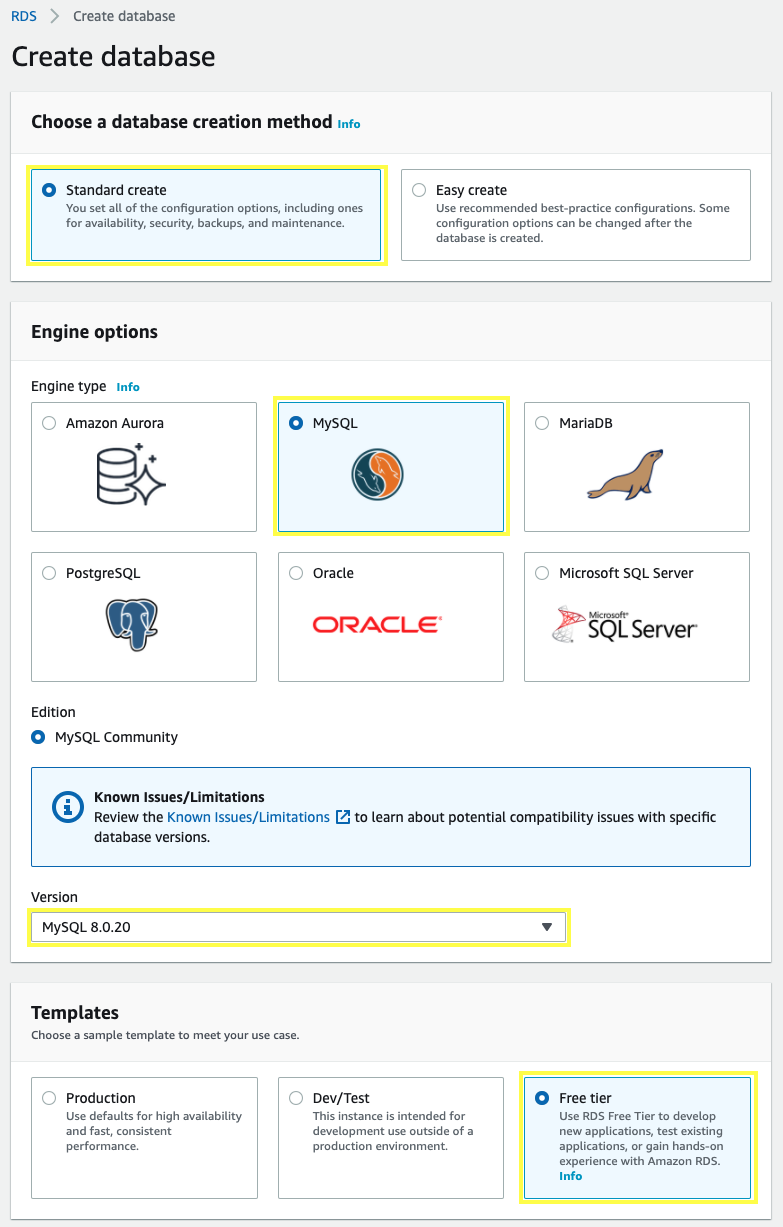
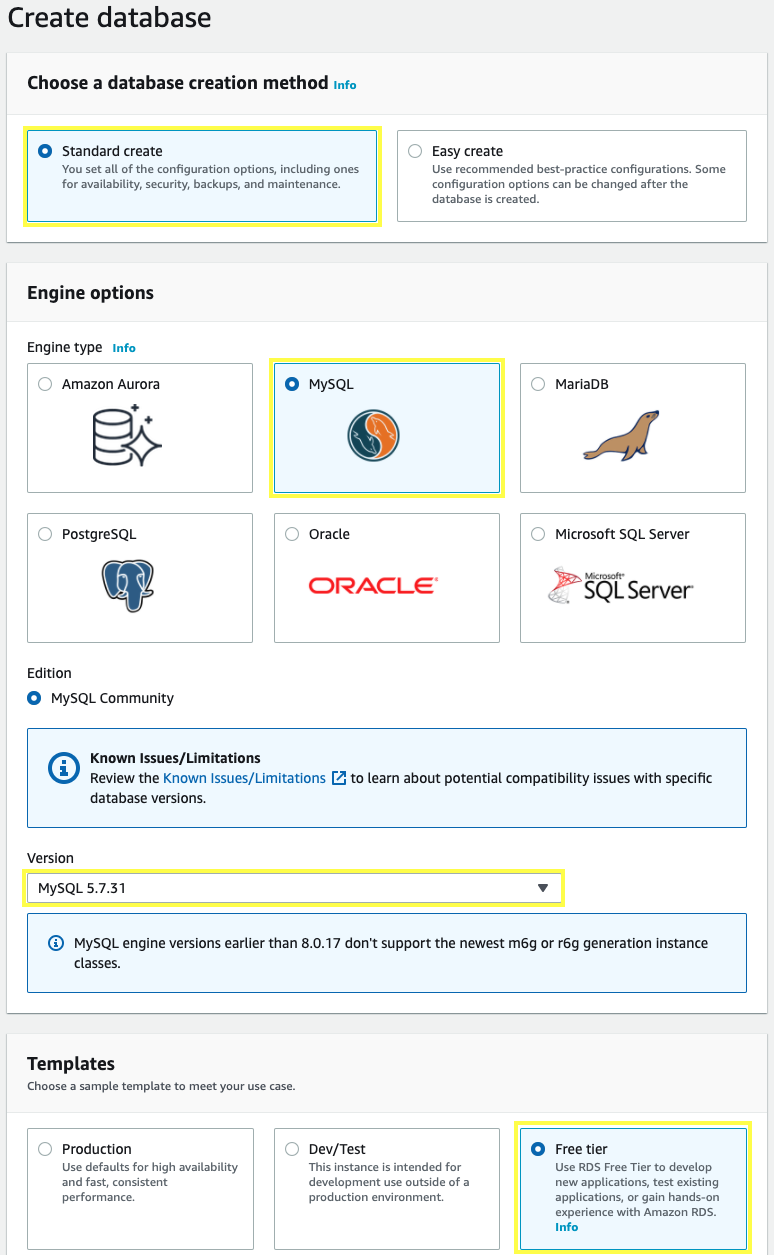
MySQL version 5.7

diff --git a/content/two-tier-application-linux/rds/launch-rds-instance.md b/content/two-tier-application-linux/rds/launch-rds-instance.md
@@ -12,7 +12,7 @@ Now that our VPC security group and subnet group are ready, let’s configure an
 
 ![RDS Create Database](images/rds-launch.png)
 
-3.3\. We will be using a **Standard Create** method, choose **MySQL** from the **Engine Options**, scroll down and in **Templates** section select **Free tier**.
+3.3\. We will be using a **Standard Create** method, choose **MySQL 5.7.x** from the **Engine Options**, scroll down and in **Templates** section select **Free tier**.
 
 ![RDS Engine](images/rds-engine-new.png)
 
@@ -31,7 +31,11 @@ Now that our VPC security group and subnet group are ready, let’s configure an
 
 ![RDS Additional](images/rds-additional-conf-new.png)
 
-3.7\. Scroll down and choose **Create database**. In the RDS Dashboard, monitor your new DB instance until the status changes from “**Creating**” to “**Backing-up**” to “**Available**”.
+3.7\. Scroll down and click on **Additional configuration**, for **Initial database name:** type `immersionday`.
+
+![RDS Additional](images/rds-addtional-configuration-name.png)
+
+3.8\. Scroll down and choose **Create database**. In the RDS Dashboard, monitor your new DB instance until the status changes from “**Creating**” to “**Backing-up**” to “**Available**”.
 
 {{% notice note %}}
 This may take up to 5 minutes as the database is being created and backed up, once is in **Available** status you can continue.
@@ -39,10 +43,10 @@ This may take up to 5 minutes as the database is being created and backed up, on
 
 ![RDS Status](images/rds-status.png)
 
-3.8\. Choose your database **awsdb**  
+3.9\. Choose your database **awsdb**  
 
 ![RDS List](images/rds-list.png)
 
-3.9\. From the **Connectivity & security** description, copy the **Endpoint** once is available, you will use it in the next section.
+3.10\. From the **Connectivity & security** description, copy the **Endpoint** once is available, you will use it in the next section.
 
 ![RDS Connectivity & security](images/rds-connectivity.png)
